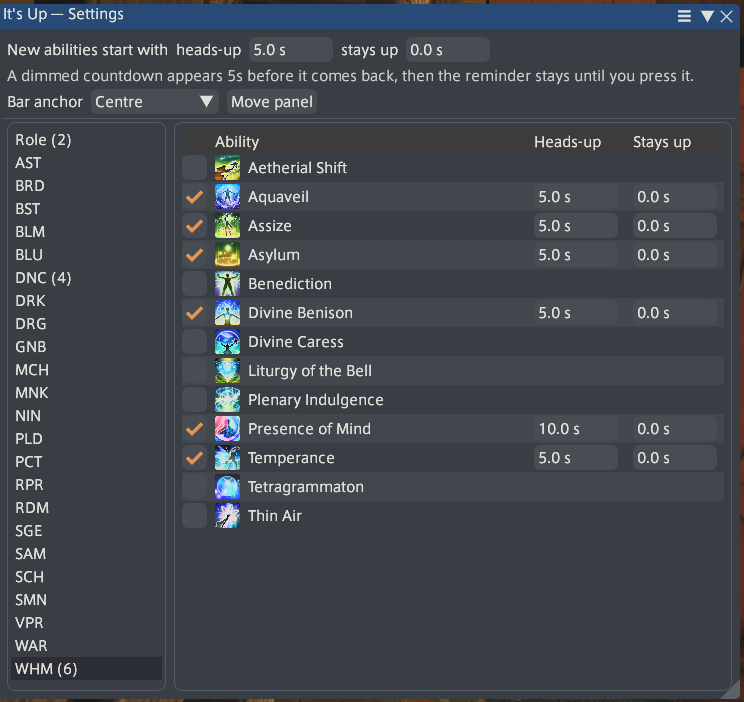
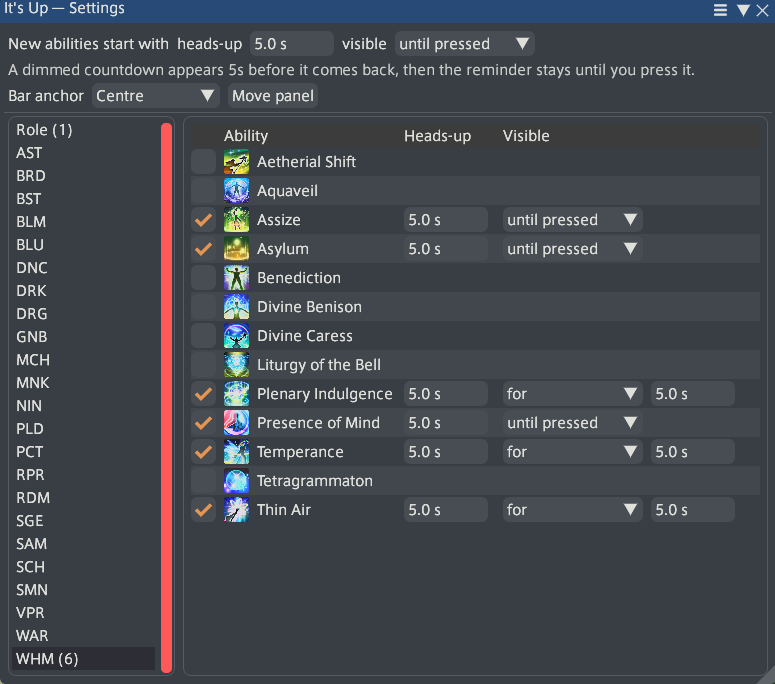
better config

diff --git a/ItsUp/Windows/ConfigWindow.cs b/ItsUp/Windows/ConfigWindow.cs
@@ -22,6 +22,11 @@ namespace ItsUp.Windows
 
         private enum View { Role, Job }
 
+        /// <summary>Seeded into "visible" when switching from "until pressed" to "for" leaves it at
+        /// a meaningless 0. Matches <see cref="Configuration.DefaultWarnMs"/> so both defaults agree
+        /// on "5s" as the plugin's one opinionated number.</summary>
+        private const int FallbackLingerMs = 5000;
+
         private readonly Configuration _config;
         private readonly CooldownTracker _tracker;
         private readonly CooldownWindow _panel;
@@ -141,15 +146,20 @@ namespace ItsUp.Windows
             if (ImGui.IsItemDeactivatedAfterEdit()) _config.Save();
 
             ImGui.SameLine();
-            ImGui.TextUnformatted("stays up");
+            ImGui.TextUnformatted("visible");
             ImGui.SameLine();
             var linger = _config.DefaultLingerMs;
-            if (DrawSecondsInput("##defaultlinger", ref linger)) _config.DefaultLingerMs = linger;
-            if (ImGui.IsItemDeactivatedAfterEdit()) _config.Save();
+            var lingerForever = _config.DefaultLingerForever;
+            if (DrawLingerInput("defaultlinger", ref linger, ref lingerForever, out var commitLinger))
+            {
+                _config.DefaultLingerMs = linger;
+                _config.DefaultLingerForever = lingerForever;
+            }
+            if (commitLinger) _config.Save();
 
-            // Spelling the current values out as a sentence is how "0 = until you press it" gets
-            // taught, rather than leaving it buried in a tooltip.
-            TextMuted(Describe(_config.DefaultWarnMs, _config.DefaultLingerMs));
+            // Spelling the current values out as a sentence reinforces what the checkbox above
+            // just set, rather than leaving it as a number nobody can interpret at a glance.
+            TextMuted(Describe(_config.DefaultWarnMs, _config.DefaultLingerMs, _config.DefaultLingerForever));
 
             ImGui.AlignTextToFramePadding();
             ImGui.TextUnformatted("Bar anchor");
@@ -169,19 +179,19 @@ namespace ItsUp.Windows
             ImGui.SameLine();
             if (ImGui.Button(_panel.Unlocked ? "Lock panel" : "Move panel"))
                 _panel.ToggleLock();
-            Tooltip("Unlocked, the panel gains a background you can drag and previews every icon this\n"
-                    + "job tracks. The gold marker is the point that stays put. Same as /itsup.");
+            Tooltip("Unlocked, drag the panel to reposition it. The gold marker is the point that\n"
+                    + "stays put. Same as /itsup.");
         }
 
-        private static string Describe(int warnMs, int lingerMs)
+        private static string Describe(int warnMs, int lingerMs, bool lingerForever)
         {
             var warn = warnMs > 0
                 ? $"A dimmed countdown appears {Seconds(warnMs)}s before it comes back"
                 : "No countdown before it comes back";
 
-            var linger = lingerMs > 0
-                ? $"the reminder clears itself {Seconds(lingerMs)}s later."
-                : "the reminder stays until you press it.";
+            var linger = lingerForever
+                ? "the reminder stays until you press it."
+                : $"the reminder clears itself {Seconds(lingerMs)}s later.";
 
             return $"{warn}, then {linger}";
         }
@@ -197,6 +207,41 @@ namespace ItsUp.Windows
 
             ms = Math.Max(0, (int)MathF.Round(seconds * 1000f));
             return true;
+        }
+
+        /// <summary>Mode dropdown ("for"/"until pressed") plus, only in "for" mode, the seconds
+        /// field. Both items are phrased as how long the reminder is *visible*, not when it hides —
+        /// "hides until pressed" reads backwards (sounds like it stays hidden till you press it), but
+        /// "visible until pressed" and "visible for 3.0s" both parse correctly paired with the same
+        /// leading word. A real bool drives which mode this is — not a 0 hiding in the number — and
+        /// the dropdown is the single control that owns which mode is active, rather than a checkbox
+        /// toggling a second control as a side effect. The field disappears entirely in "until
+        /// pressed" mode rather than leaving a value on screen that is no longer in effect; switching
+        /// back to "for" seeds a real duration in rather than leaving a meaningless 0.</summary>
+        private static bool DrawLingerInput(string id, ref int ms, ref bool forever, out bool commit)
+        {
+            commit = false;
+            var changed = false;
+
+            var mode = forever ? 1 : 0;
+            ImGui.SetNextItemWidth(120 * ImGuiHelpers.GlobalScale);
+            if (ImGui.Combo($"##{id}mode", ref mode, "for\0until pressed\0"))
+            {
+                forever = mode == 1;
+                if (!forever && ms <= 0) ms = FallbackLingerMs;
+                changed = true;
+                commit = true;
+            }
+            Tooltip("\"Until pressed\" keeps it visible and nagging until you actually press it.");
+
+            if (!forever)
+            {
+                ImGui.SameLine();
+                if (DrawSecondsInput($"##{id}", ref ms)) changed = true;
+                if (ImGui.IsItemDeactivatedAfterEdit()) commit = true;
+            }
+
+            return changed;
         }
 
         private void DrawSidebar()
@@ -238,14 +283,14 @@ namespace ItsUp.Windows
             ImGui.TableSetupColumn("##track", ImGuiTableColumnFlags.WidthFixed);
             ImGui.TableSetupColumn("Ability", ImGuiTableColumnFlags.WidthStretch);
             ImGui.TableSetupColumn("Heads-up", ImGuiTableColumnFlags.WidthFixed, 78 * scale);
-            ImGui.TableSetupColumn("Stays up", ImGuiTableColumnFlags.WidthFixed, 78 * scale);
+            ImGui.TableSetupColumn("Visible", ImGuiTableColumnFlags.WidthFixed, 220 * scale);
 
             // Built by hand rather than TableHeadersRow() so the two timing columns can carry tooltips.
             ImGui.TableNextRow(ImGuiTableRowFlags.Headers);
             DrawHeader(0, "##track", null);
             DrawHeader(1, "Ability", null);
             DrawHeader(2, "Heads-up", "How long before the ability comes back the dimmed countdown icon appears.\n0 s = no countdown, it just shows up when it is ready.");
-            DrawHeader(3, "Stays up", "How long the reminder stays on screen once the ability is back.\n0 s = it nags until you press it.");
+            DrawHeader(3, "Visible", "How long the reminder stays on screen once the ability is back.\nPick \"until pressed\" to nag instead, until you actually press it.");
 
             foreach (var actionId in ids)
             {
@@ -262,7 +307,8 @@ namespace ItsUp.Windows
                         settings = new AbilitySettings
                         {
                             WarnMs = _config.DefaultWarnMs,
-                            LingerMs = _config.DefaultLingerMs
+                            LingerMs = _config.DefaultLingerMs,
+                            LingerForever = _config.DefaultLingerForever
                         };
                         _config.Tracked[actionId] = settings;
                     }
@@ -295,8 +341,13 @@ namespace ItsUp.Windows
                 if (settings != null)
                 {
                     var linger = settings.LingerMs;
-                    if (DrawSecondsInput("##linger", ref linger)) settings.LingerMs = linger;
-                    if (ImGui.IsItemDeactivatedAfterEdit()) _config.Save();
+                    var lingerForever = settings.LingerForever;
+                    if (DrawLingerInput("linger", ref linger, ref lingerForever, out var commit))
+                    {
+                        settings.LingerMs = linger;
+                        settings.LingerForever = lingerForever;
+                    }
+                    if (commit) _config.Save();
                 }
             }
         }

diff --git a/ItsUp/CooldownTracker.cs b/ItsUp/CooldownTracker.cs
@@ -15,10 +15,10 @@ namespace ItsUp
 
         public int WarnMs => Settings.WarnMs;
         public int LingerMs => Settings.LingerMs;
+        public bool LingerForever => Settings.LingerForever;
 
         public string Name = string.Empty;
         public uint IconId;
-        public uint ClassJobCategoryId;
 
         public bool Available;
         public bool WasAvailable = true;
@@ -34,13 +34,10 @@ namespace ItsUp
         /// <summary>True = cleared because you pressed it. False = cleared because <see cref="LingerMs"/> gave up.</summary>
         public bool ConsumedByPress;
 
-        /// <summary>Whether the job you are currently on can press this at all.</summary>
-        public bool Usable;
-
         public bool IsReady => ReadySince != null;
         public bool IsWarming => !Available && SecondsLeft > 0f && SecondsLeft <= WarnMs / 1000f;
         public bool IsConsuming => ConsumedSince != null;
-        public bool Visible => Usable && (IsReady || IsWarming || IsConsuming);
+        public bool Visible => IsReady || IsWarming || IsConsuming;
     }
 
     public class CooldownTracker
@@ -72,7 +69,6 @@ namespace ItsUp
                 {
                     cd.Name = row.Name.ToString();
                     cd.IconId = row.Icon;
-                    cd.ClassJobCategoryId = row.ClassJobCategory.RowId;
                 }
 
                 Services.Logger.Information($"Tracking {actionId} = \"{cd.Name}\" (icon {cd.IconId})");
@@ -91,22 +87,10 @@ namespace ItsUp
             if (am == null || player == null) return;
 
             var inCombat = Services.Condition[ConditionFlag.InCombat];
-            var jobId = player.ClassJob.RowId;
             var now = DateTime.UtcNow;
 
             foreach (var cd in _tracked)
             {
-                // Abilities belonging to another job never fire an edge anyway, but gating here keeps
-                // them out of the panel and out of move mode's preview.
-                cd.Usable = JobEligibility.CanUse(cd.ClassJobCategoryId, jobId);
-                if (!cd.Usable)
-                {
-                    cd.ReadySince = null;
-                    cd.ConsumedSince = null;   // a job swap shouldn't leave a stale flash behind
-                    cd.Available = cd.WasAvailable = true;
-                    continue;
-                }
-
                 // Expire an in-flight consumed-state animation once it has played out.
                 if (cd.ConsumedSince is { } consumedAt &&
                     (now - consumedAt).TotalMilliseconds > TrackedCooldown.ConsumeFadeMs)
@@ -142,7 +126,7 @@ namespace ItsUp
                     cd.ConsumedByPress = true;
                 }
 
-                if (cd.ReadySince is { } since && cd.LingerMs > 0 &&
+                if (!cd.LingerForever && cd.ReadySince is { } since &&
                     (now - since).TotalMilliseconds > cd.LingerMs)
                 {
                     cd.ReadySince = null;                                 // nagged long enough

diff --git a/ItsUp/Configuration.cs b/ItsUp/Configuration.cs
@@ -18,10 +18,13 @@ namespace ItsUp
     public class AbilitySettings
     {
         /// <summary>How long before it comes back the dim warning appears.</summary>
-        public int WarnMs { get; set; } = 3000;
+        public int WarnMs { get; set; }
 
-        /// <summary>How long the reminder nags once it is back. 0 means until you press it.</summary>
+        /// <summary>How long the reminder nags once it is back. Ignored when <see cref="LingerForever"/> is set.</summary>
         public int LingerMs { get; set; }
+
+        /// <summary>True = ignore <see cref="LingerMs"/> and nag until the ability is pressed.</summary>
+        public bool LingerForever { get; set; }
     }
 
     [Serializable]
@@ -30,11 +33,13 @@ namespace ItsUp
         public int Version { get; set; } = 1;
 
         /// <summary>Seeded into a new entry when an ability is first ticked in the picker.</summary>
-        public int DefaultWarnMs { get; set; } = 3000;
+        public int DefaultWarnMs { get; set; } = 5000;
 
         public int DefaultLingerMs { get; set; }
 
-        public Dictionary<uint, AbilitySettings> Tracked { get; set; } = new();
+        public bool DefaultLingerForever { get; set; } = true;
+
+        public Dictionary<uint, AbilitySettings> Tracked { get; set; } = [];
 
         /// <summary>
         /// The pinned point, in screen pixels, and which edge of the bar sits on it. Position is

diff --git a/ItsUp/Plugin.cs b/ItsUp/Plugin.cs
@@ -25,8 +25,6 @@ namespace ItsUp
             Services.Initialize(pluginInterface);
             _pluginInterface = pluginInterface;
 
-            JobEligibility.Build();
-
             var existing = pluginInterface.GetPluginConfig() as Configuration;
             _config = existing ?? new Configuration();
             _config.Initialize(pluginInterface);

diff --git a/README.md b/README.md
@@ -38,5 +38,5 @@ Then install **It's Up** from `/xlplugins`.
 Everything else — filters, timing meanings, bar positioning — is explained in the settings
 window itself.
 
-<p align="center"><img src="docs/settings.png" alt="The settings window, showing tracked White Mage abilities with their heads-up and stays-up timings" width="560"></p>
+<p align="center"><img src="docs/settings.png" alt="The settings window, showing tracked White Mage abilities with their heads-up and stays-up timings"></p>
 
